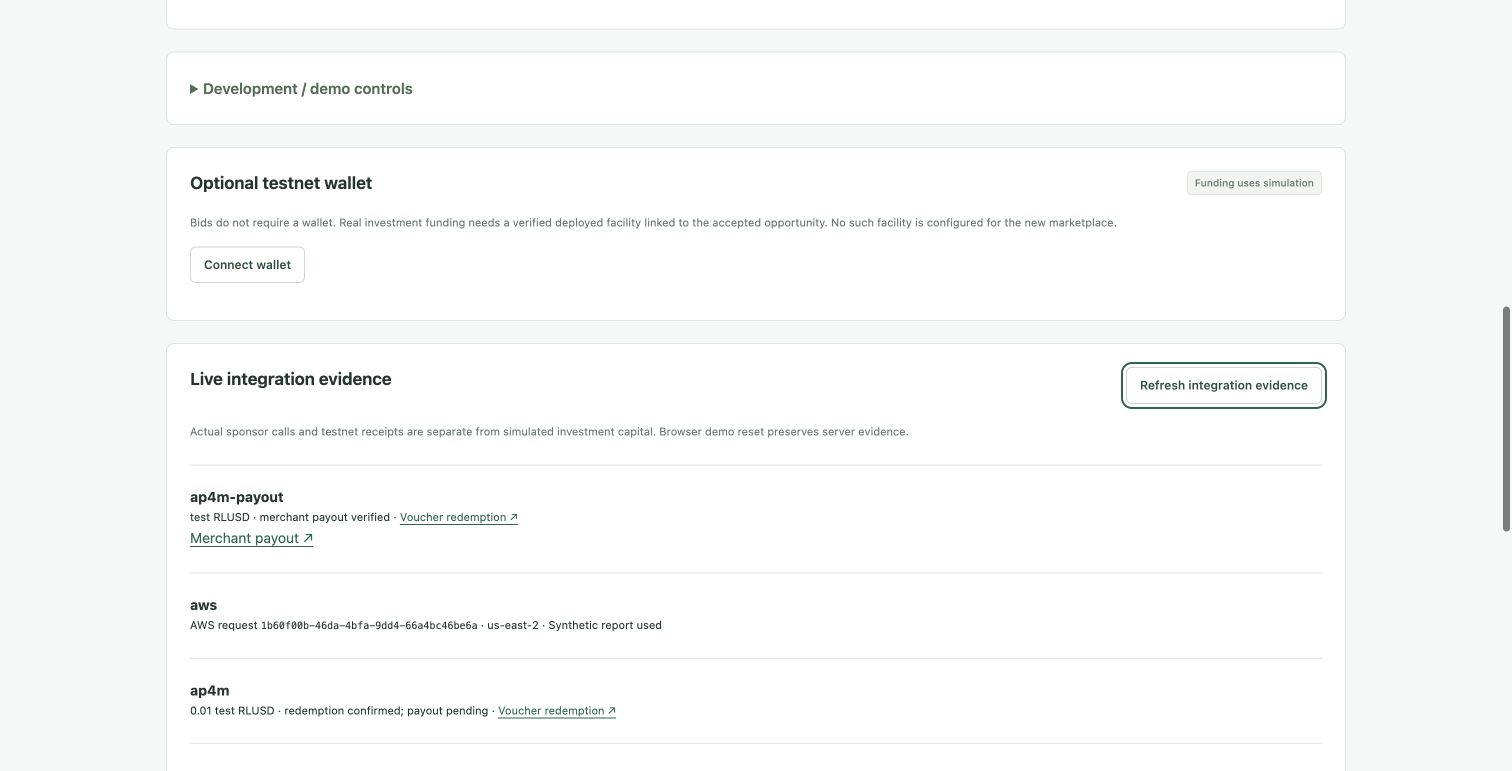
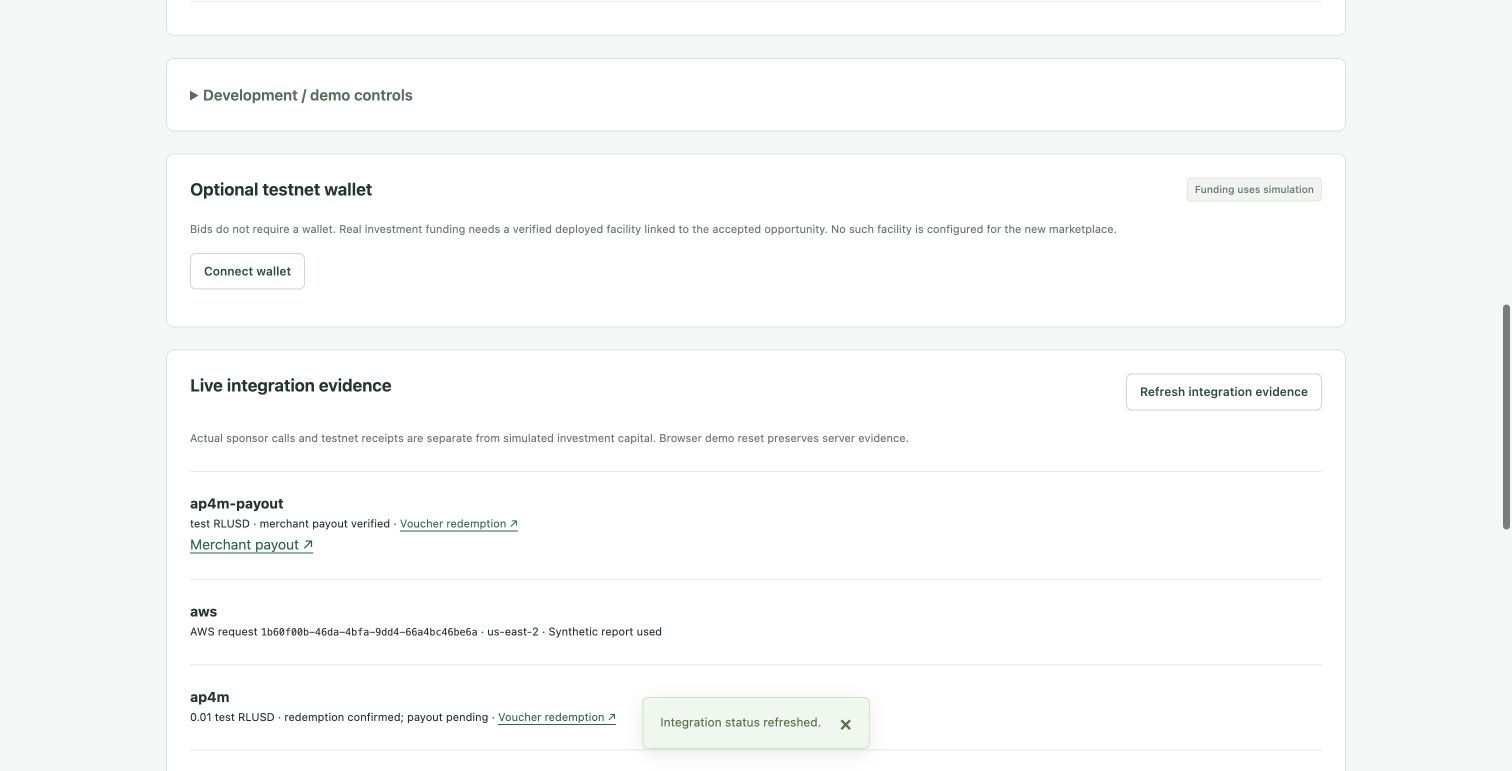
Document verified integration handoff and current architecture

diff --git a/docs/ARCHITECTURE.md b/docs/ARCHITECTURE.md
@@ -1,3 +1,5 @@
+> The v0.3 backend implementation and current service boundaries are documented in [INTEGRATIONS](INTEGRATIONS.md). The preserved v0.2 frontend architecture follows.
+
 # Architecture
 
 BACKSTOP v0.2 uses React 19, TypeScript, and Vite. Exactly four application routes are handled by `src/router.ts` and `src/App.tsx`: signup, borrow, invest, and dashboard. Account creation and role switching are demo conveniences, not authorization.

diff --git a/docs/MVP_REFACTOR.md b/docs/MVP_REFACTOR.md
@@ -1,3 +1,5 @@
+> Historical four-page refactor report. Current live sponsor integration results are in [FINAL_STATUS](FINAL_STATUS.md).
+
 # BACKSTOP v0.2 refactor report
 
 Built October 25, 2026. Source branch: `feat/four-page-mvp`.
